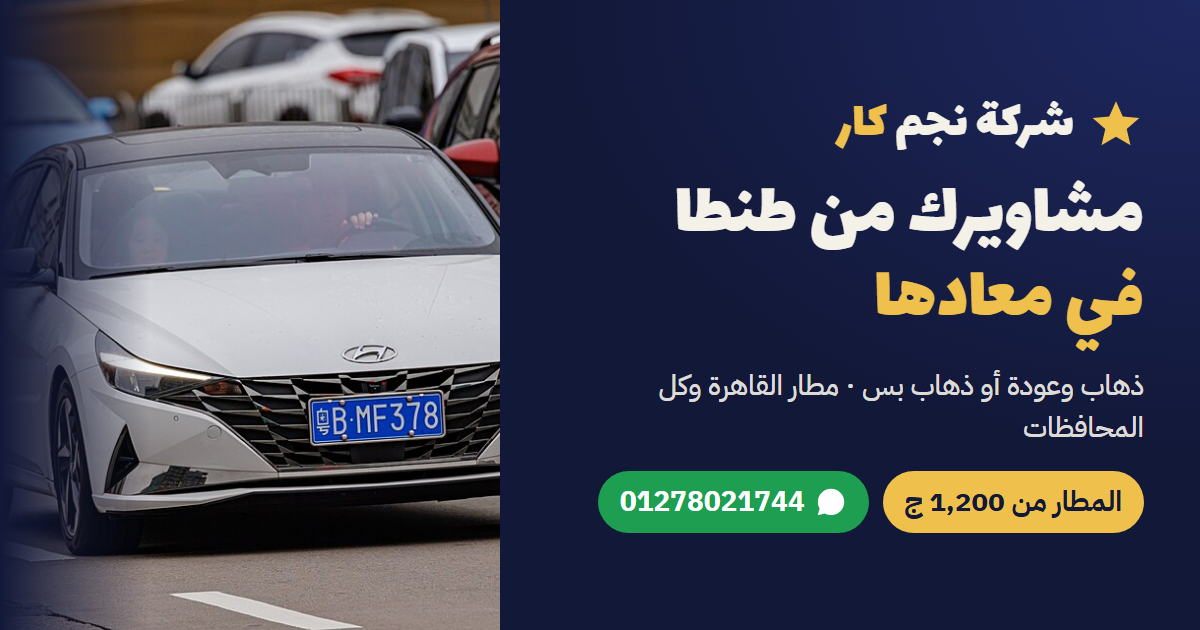
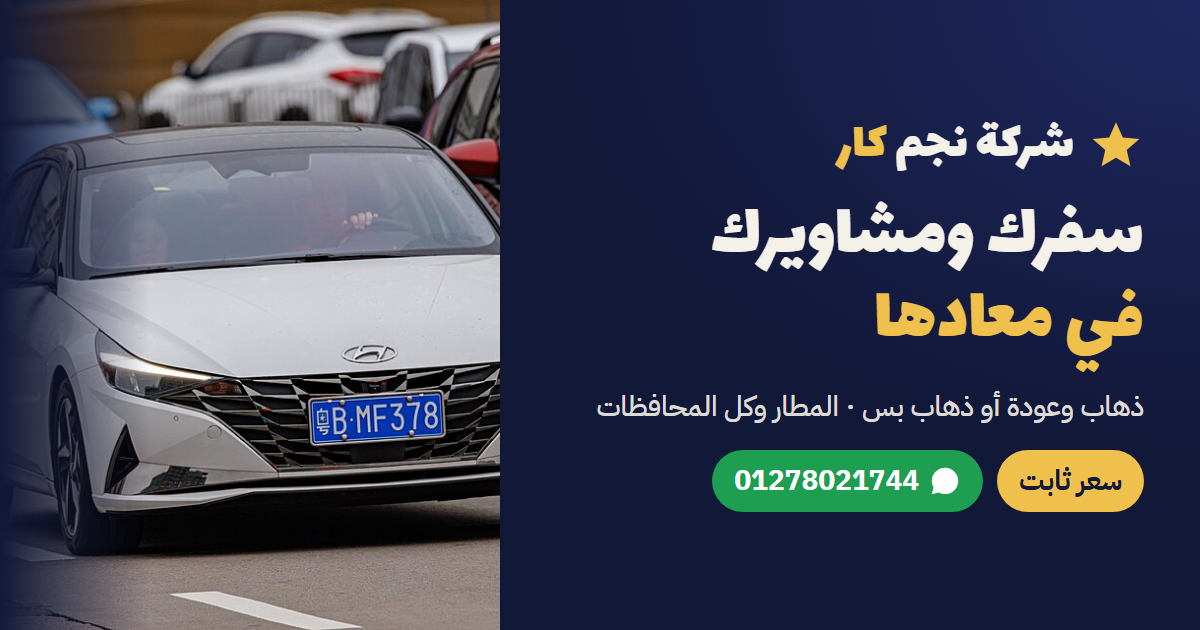
Make the copy nationwide instead of Tanta-only
Fare rows still start from Tanta; a line above them sends other cities to the custom-trip form.
Post and link preview drop the Tanta airport price for a fixed-price message.

Changed region(s): [[0.4933, 0.1508, 0.9558, 0.8444]]

diff --git a/index.html b/index.html
@@ -5,11 +5,11 @@
 <meta name="viewport" content="width=device-width, initial-scale=1, viewport-fit=cover">
 <title>نجم كار</title>
 <meta name="claude:viewport-fit-sides" content="cover">
-<meta name="description" content="شركة نجم كار: مشاوير من طنطا بمواعيد محددة، ذهاب وعودة أو ذهاب بس، لمطار القاهرة وكل المحافظات. احجز على واتساب.">
+<meta name="description" content="شركة نجم كار: مشاوير وسفر بمواعيد محددة لكل المحافظات والمطار، ذهاب وعودة أو ذهاب بس. احجز على واتساب.">
 <meta property="og:type" content="website">
 <meta property="og:site_name" content="شركة نجم كار">
-<meta property="og:title" content="شركة نجم كار | مشاوير من طنطا في معادها">
-<meta property="og:description" content="عربية نضيفة وكابتن محترم، بسعر ثابت. طنطا ← مطار القاهرة من 1,200 ج.م. احجز على واتساب.">
+<meta property="og:title" content="شركة نجم كار | سفرك ومشاويرك في معادها">
+<meta property="og:description" content="عربية نضيفة وكابتن محترم بسعر ثابت، للمطار وكل المحافظات. احجز على واتساب.">
 <meta property="og:url" content="https://mohamedashraf-sp.github.io/Nagm-cars/">
 <meta property="og:image" content="https://mohamedashraf-sp.github.io/Nagm-cars/images/og.png">
 <meta property="og:image:width" content="1200">
@@ -427,9 +427,9 @@ a.menu-btn svg { width: 20px; height: 20px; }
     <section class="hero" id="top">
       <div class="wrap">
         <div class="hero-copy">
-          <p class="eyebrow">مشاوير من طنطا بمواعيد محددة</p>
+          <p class="eyebrow">مشاوير وسفر بمواعيد محددة لكل المحافظات</p>
           <h1>مشوارك في <em>معاده</em><br>والكابتن مستنيك</h1>
-          <p class="lead">احجز مشوارك من طنطا قبلها بيوم أو أكتر: لمطار القاهرة، أو سفر للقاهرة وإسكندرية والساحل، ذهاب وعودة أو ذهاب بس. سعر ثابت متفق عليه، وكابتن محترم بعربية نضيفة ومكيفة.</p>
+          <p class="lead">احجز مشوارك قبلها بيوم أو أكتر: للمطار، أو سفر من أي محافظة لأي محافظة، ذهاب وعودة أو ذهاب بس. سعر ثابت متفق عليه، وكابتن محترم بعربية نضيفة ومكيفة.</p>
           <div class="hero-actions">
             <a class="btn-wa" data-wa="أهلاً نجم كار، عايز أحجز مشوار" href="#" target="_blank" rel="noopener">
               <svg aria-hidden="true"><use href="#i-wa"/></svg>احجز على واتساب
@@ -482,12 +482,12 @@ a.menu-btn svg { width: 20px; height: 20px; }
     <div class="wrap about">
       <div class="about-text">
         <p class="eyebrow">من نحن</p>
-        <h2>نجم كار، مشاويرك من طنطا في معادها</h2>
-        <p>نجم كار شركة نقل ركاب من طنطا، شغالة بنظام الحجز المسبق. بتحجز مشوارك قبلها على واتساب، وبنأكدلك السعر والعربية واسم الكابتن قبل يوم المشوار، فتنزل تلاقي العربية مستنياك.</p>
+        <h2>نجم كار، مشاويرك في معادها</h2>
+        <p>نجم كار شركة نقل ركاب شغالة بنظام الحجز المسبق في كل المحافظات. بتحجز مشوارك قبلها على واتساب، وبنأكدلك السعر والعربية واسم الكابتن قبل يوم المشوار، فتنزل تلاقي العربية مستنياك.</p>
         <p>بنختار الكباتن بتوعنا بعناية: رخصة سارية، سواقة هادية، واحترام لمعاد الراكب. والعربيات بتتراجع وتتنضف قبل كل رحلة سفر.</p>
       </div>
       <dl class="about-card">
-        <div><dt>المقر</dt><dd>طنطا، الغربية</dd></div>
+        <div><dt>بنخدم</dt><dd>كل المحافظات</dd></div>
         <div><dt>مواعيد الحجز</dt><dd>كل يوم، ٨ ص لـ ١٢ م</dd></div>
         <div><dt>طريقة الحجز</dt><dd>واتساب</dd></div>
         <div><dt>الدفع</dt><dd>كاش أو إنستاباي</dd></div>
@@ -511,7 +511,7 @@ a.menu-btn svg { width: 20px; height: 20px; }
         <article class="service">
           <svg aria-hidden="true" viewBox="0 0 24 24" fill="none" stroke="currentColor" stroke-width="2"><path d="M2 16l20-6-3-3-6 2-6-5-2 1 4 5-5 2-2-1-1 1z"/><path d="M3 21h18"/></svg>
           <h3>توصيل واستقبال المطار</h3>
-          <p>من طنطا لمطار القاهرة وبالعكس. الكابتن بيتابع ميعاد طيارتك.</p>
+          <p>توصيل للمطار أو استقبال منه لحد باب البيت. الكابتن بيتابع ميعاد طيارتك.</p>
         </article>
         <article class="service">
           <svg aria-hidden="true" viewBox="0 0 24 24" fill="none" stroke="currentColor" stroke-width="2"><path d="M4 19L10 5h4l6 14"/><path d="M12 8v2M12 13v2"/></svg>
@@ -587,7 +587,7 @@ a.menu-btn svg { width: 20px; height: 20px; }
     <div class="wrap">
       <div class="sec-head">
         <h2>أسعار المشاوير</h2>
-        <p>السعر للعربية كلها مش للفرد. اختار ذهاب وعودة أو ذهاب بس.</p>
+        <p>السعر للعربية كلها مش للفرد. اختار ذهاب وعودة أو ذهاب بس. مسافر من مدينة تانية؟ <a href="#custom">اطلب سعر مشوارك</a> وهنحسبهولك بنفس السعر للكيلو.</p>
       </div>
       <div class="trip-type" role="group" aria-label="نوع المشوار">
         <button type="button" data-type="round" aria-pressed="true">ذهاب وعودة</button>
@@ -616,7 +616,7 @@ a.menu-btn svg { width: 20px; height: 20px; }
         </div>
         <form class="trip-form" id="trip-form" novalidate>
           <label>من فين
-            <input id="trip-from" name="from" list="places" required placeholder="مثلاً: طنطا، شارع البحر" autocomplete="off">
+            <input id="trip-from" name="from" list="places" required placeholder="المدينة والشارع" autocomplete="off">
           </label>
           <label>رايح فين
             <input id="trip-to" name="to" list="places" required placeholder="مثلاً: مطار القاهرة" autocomplete="off">
@@ -668,7 +668,7 @@ a.menu-btn svg { width: 20px; height: 20px; }
       <div class="sec-head"><h2>ليه نجم كار؟</h2></div>
       <div class="why">
         <div><svg aria-hidden="true"><use href="#i-star"/></svg><h3>الكابتن ثابت</h3><p>نفس الكابتن لو عندك مشوار متكرر كل يوم أو كل أسبوع.</p></div>
-        <div><svg aria-hidden="true" viewBox="0 0 24 24" fill="none" stroke="currentColor" stroke-width="2"><path d="M3 12h18M12 3c3 3 3 15 0 18M12 3c-3 3-3 15 0 18"/><circle cx="12" cy="12" r="9"/></svg><h3>كل المحافظات</h3><p>من طنطا لأي محافظة، ومن أي محافظة لطنطا.</p></div>
+        <div><svg aria-hidden="true" viewBox="0 0 24 24" fill="none" stroke="currentColor" stroke-width="2"><path d="M3 12h18M12 3c3 3 3 15 0 18M12 3c-3 3-3 15 0 18"/><circle cx="12" cy="12" r="9"/></svg><h3>كل المحافظات</h3><p>من أي محافظة لأي محافظة، ومن وإلى المطار.</p></div>
         <div><svg aria-hidden="true" viewBox="0 0 24 24" fill="none" stroke="currentColor" stroke-width="2"><path d="M5 12l4 4L19 6"/></svg><h3>من غير مفاجآت</h3><p>السعر اللي اتفقنا عليه هو اللي هتدفعه.</p></div>
         <div><svg aria-hidden="true" viewBox="0 0 24 24" fill="none" stroke="currentColor" stroke-width="2"><path d="M4 5h16v11H8l-4 4z"/></svg><h3>متابعة لحد ما توصل</h3><p>فريقنا على واتساب معاك طول الرحلة.</p></div>
       </div>
@@ -688,7 +688,7 @@ a.menu-btn svg { width: 20px; height: 20px; }
           <div><dt>واتساب</dt><dd><span class="num wa-num-text" id="wa-number"></span><button type="button" class="copy" id="copy-num">انسخ الرقم</button></dd></div>
           <div><dt>اتصال</dt><dd><a class="num phone-text" data-tel href="#"></a></dd></div>
           <div><dt>مواعيد الرد</dt><dd>كل يوم من ٨ الصبح لـ ١٢ بالليل</dd></div>
-          <div><dt>المكان</dt><dd>طنطا، محافظة الغربية</dd></div>
+          <div><dt>بنخدم</dt><dd>كل محافظات مصر</dd></div>
         </dl>
       </div>
       <a class="btn-wa" data-wa="أهلاً نجم كار، عايز أحجز مشوار" href="#" target="_blank" rel="noopener">
@@ -700,7 +700,7 @@ a.menu-btn svg { width: 20px; height: 20px; }
   <footer>
     <div class="wrap">
       <span>© نجم كار ٢٠٢٦</span>
-      <span>مشاوير بمواعيد محددة · من طنطا لكل المحافظات</span>
+      <span>مشاوير وسفر بمواعيد محددة · لكل المحافظات</span>
     </div>
   </footer>
 

diff --git a/marketing/post.html b/marketing/post.html
@@ -66,20 +66,20 @@ body > *:not(.stars) { position: relative; z-index: 1; }
 
 <header class="brand">
   <div class="logo"><svg><use href="#star"/></svg><b>شركة نجم <span>كار</span></b></div>
-  <span class="place">طنطا</span>
+  <span class="place">كل المحافظات</span>
 </header>
 
 <div class="hook">
-  <h1>مسافر من طنطا؟</h1>
+  <h1>عندك سفرية؟</h1>
   <p>عربية نضيفة وكابتن محترم مستنيك على باب البيت في معادك بالظبط</p>
 </div>
 
 <div class="photo">
   <img src="../images/elantra.jpg" alt="">
-  <div class="price"><small>طنطا ← مطار القاهرة · ذهاب</small><strong>1,200 ج</strong></div>
+  <div class="price"><small>المطار وكل المحافظات</small><strong>سعر ثابت</strong></div>
 </div>
 
-<div class="checks"><span>سعر ثابت</span><span>في المعاد</span><span>ذهاب وعودة</span></div>
+<div class="checks"><span>عربية نضيفة</span><span>في المعاد</span><span>ذهاب وعودة</span></div>
 
 <div class="cta">
   <span class="lbl"><svg><use href="#wa"/></svg>احجز على واتساب</span>

diff --git a/marketing/og.html b/marketing/og.html
@@ -41,10 +41,10 @@ p { font-size: 28px; font-weight: 500; opacity: .9; }
 </svg>
 <div class="text">
   <div class="logo"><svg><use href="#star"/></svg><b>شركة نجم <span>كار</span></b></div>
-  <h1>مشاويرك من طنطا<br><em>في معادها</em></h1>
-  <p>ذهاب وعودة أو ذهاب بس · مطار القاهرة وكل المحافظات</p>
+  <h1>سفرك ومشاويرك<br><em>في معادها</em></h1>
+  <p>ذهاب وعودة أو ذهاب بس · المطار وكل المحافظات</p>
   <div class="row">
-    <span class="chip">المطار من 1,200 ج</span>
+    <span class="chip">سعر ثابت</span>
     <span class="wa"><svg><use href="#wa"/></svg><span>01278021744</span></span>
   </div>
 </div>
